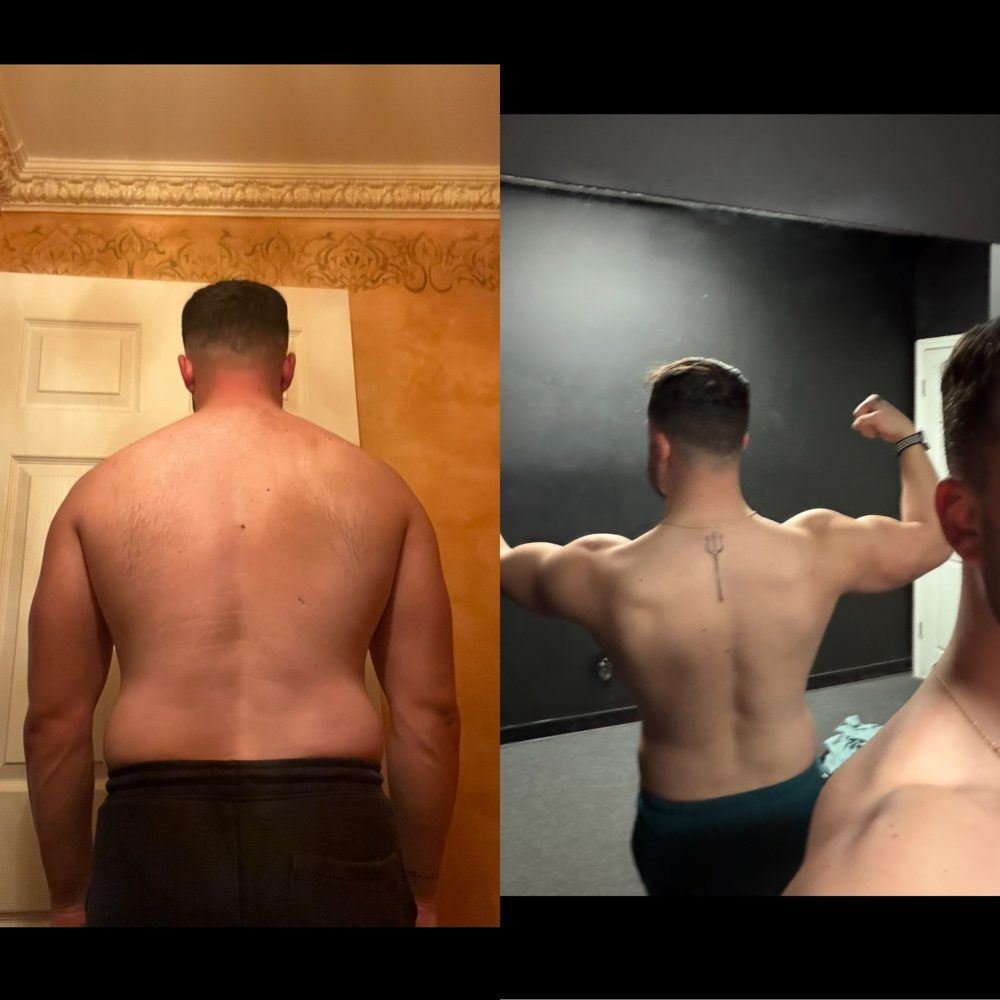
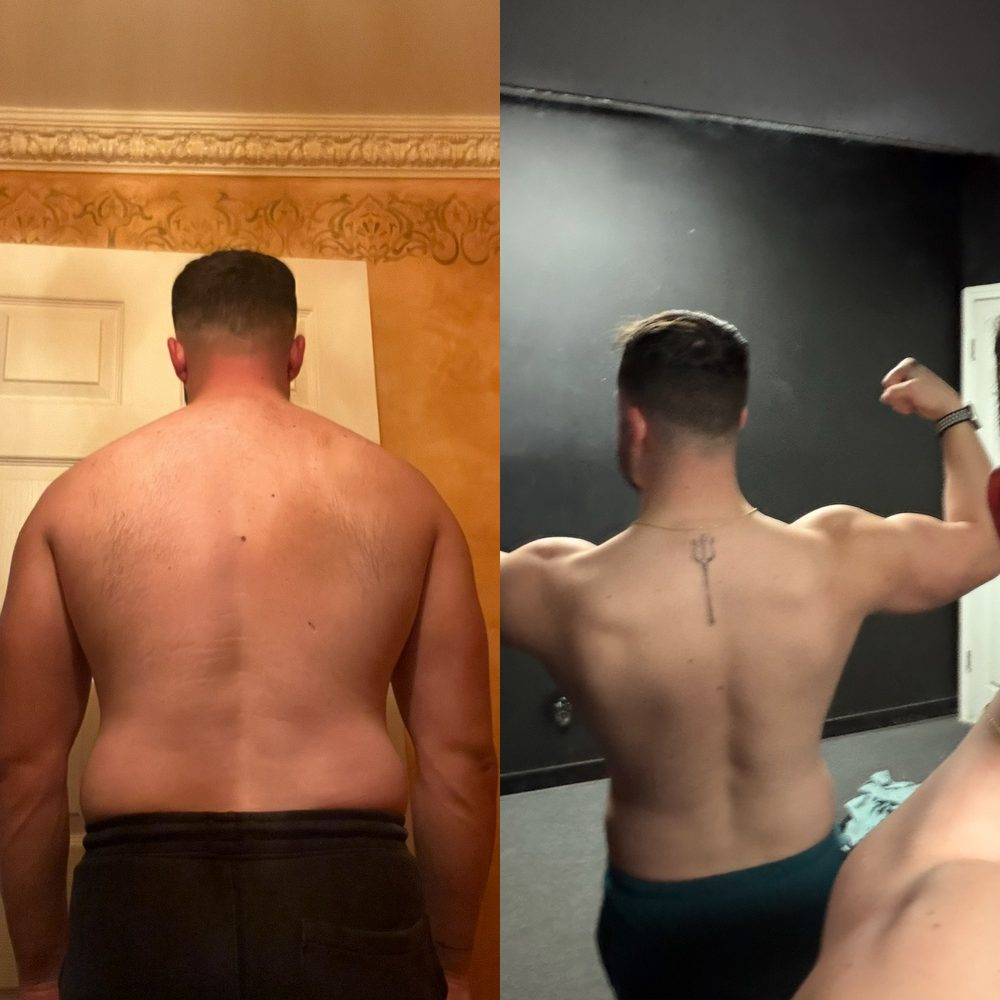
Landing: What you get instead of How it works; fix black bars on one result
The four-step process section (apply, strategy call...) gave away what
belongs on the call. It is now 'What you get': daily access to Colby,
3x30-minute workouts with demo videos, meals built on foods they love with
photo tracking, and abs kept for life, each with an icon. Result 12 is
re-cropped so neither side has black bars.

Claude-Session: https://claude.ai/code/session_01HgMd2icdwuCwBoVff9EScp

diff --git a/src/app/coaching/page.tsx b/src/app/coaching/page.tsx
@@ -1,6 +1,6 @@
 import Link from 'next/link';
 import type { Metadata } from 'next';
-import { Check, Play, Quote, X } from 'lucide-react';
+import { Check, Dumbbell, MessageCircle, Play, Quote, Trophy, UtensilsCrossed, X } from 'lucide-react';
 import { LANDING, type ClientResult, type Testimonial } from '@/lib/landing-content';
 import { landingVideo, resultsView, testimonialsView } from '@/lib/landing';
 import { normalizeSource } from '@/lib/application-fields';
@@ -180,24 +180,27 @@ export default function CoachingPage({ searchParams }: { searchParams?: { ref?: 
         </div>
       </section>
 
-      {/* ── How it works ─────────────────────────────────────────────── */}
+      {/* ── What you get ─────────────────────────────────────────────── */}
       <section className={`${section} bg-card/30`}>
         <div className={wrap}>
           <div className="max-w-2xl">
-            <Eyebrow>How it works</Eyebrow>
-            <h2 className={h2}>Four steps. Then you never start over again.</h2>
+            <Eyebrow>What you get</Eyebrow>
+            <h2 className={h2}>Everything you need to see your abs. Nothing you don't.</h2>
           </div>
-          <ol className="mt-12 grid gap-5 sm:grid-cols-2 lg:grid-cols-4">
-            {LANDING.steps.map((step, i) => (
+          <ul className="mt-12 grid gap-5 sm:grid-cols-2 lg:grid-cols-4">
+            {LANDING.steps.map((step, i) => {
+              const Icon = [MessageCircle, Dumbbell, UtensilsCrossed, Trophy][i] ?? Check;
+              return (
               <li key={step.title} className={`${card} p-7`}>
-                <span className="flex h-10 w-10 items-center justify-center rounded-[999px] border border-accent/60 bg-background text-sm font-bold text-accent glow-soft shadow-[0_0_18px_-2px_hsl(var(--accent)/0.7)]">
-                  {i + 1}
+                <span className="flex h-11 w-11 items-center justify-center rounded-[999px] border border-accent/60 bg-background text-accent glow-soft shadow-[0_0_18px_-2px_hsl(var(--accent)/0.7)]">
+                  <Icon size={20} />
                 </span>
                 <h3 className="mt-5 text-lg font-bold">{step.title}</h3>
-                <p className="mt-2 text-[15px] leading-relaxed text-muted-foreground">{step.body}</p>
+                <p className="mt-2 text-[15px] leading-relaxed text-foreground/80">{step.body}</p>
               </li>
-            ))}
-          </ol>
+              );
+            })}
+          </ul>
           <div className="mt-12 flex justify-center">
             <ApplyLink href={applyHref} label={LANDING.applyLabel} className="w-full sm:w-auto sm:min-w-[260px]" />
           </div>

diff --git a/src/lib/landing-content.ts b/src/lib/landing-content.ts
@@ -168,22 +168,23 @@ export const LANDING: LandingContent = {
     "You want to be told it's easy. It isn't. It's simple.",
   ],
 
+  // "What you get" — the offer, not the process. The call covers the rest.
   steps: [
     {
-      title: 'Apply',
-      body: 'A few quick questions. Tell me where you are and what you want to change.',
+      title: 'Me, every single day',
+      body: "Text me whenever. I check in with you every day, and if you need a call, I jump on one. No team, no assistant. Just me.",
     },
     {
-      title: 'Strategy call',
-      body: "You and I get on a call. If I can help you, I'll show you exactly how. If I can't, I'll tell you.",
+      title: '3 workouts a week, 30 minutes each',
+      body: "That's all it takes to build real muscle. Every session is in your app with a video showing exactly how to do each move.",
     },
     {
-      title: 'Get lean, in the ARISE app',
-      body: 'Training and nutrition built around your week, your travel and the food you actually eat. Every session and every target, right on your phone.',
+      title: 'Eat the foods you love',
+      body: "Your meals are built around what you already like to eat. Snap a photo of your plate and the numbers are done for you.",
     },
     {
-      title: 'Learn to keep it for life',
-      body: "I'm in touch with you every single day, and if you need a call, I jump on one with you. I adjust everything as you go, and I teach you how to eat out, drink and enjoy dessert without losing what you built. So you never have to start over again.",
+      title: 'Abs you keep for life',
+      body: "I teach you how to eat out, have a drink and enjoy dessert without losing what you built. So you never have to start over again.",
     },
   ],
 
